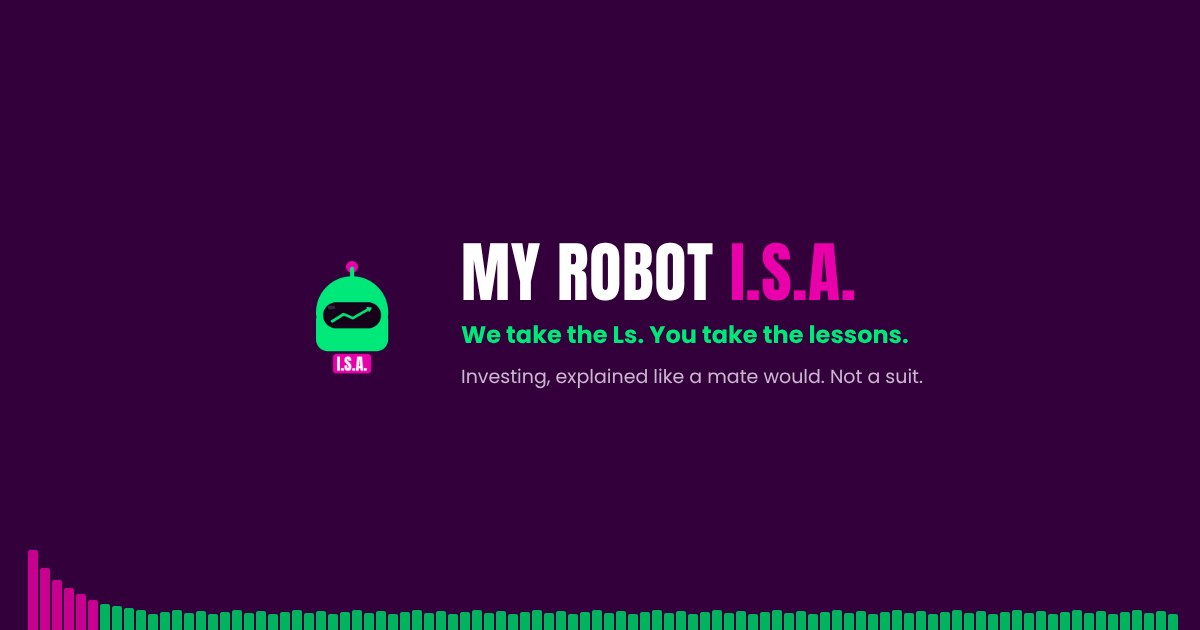
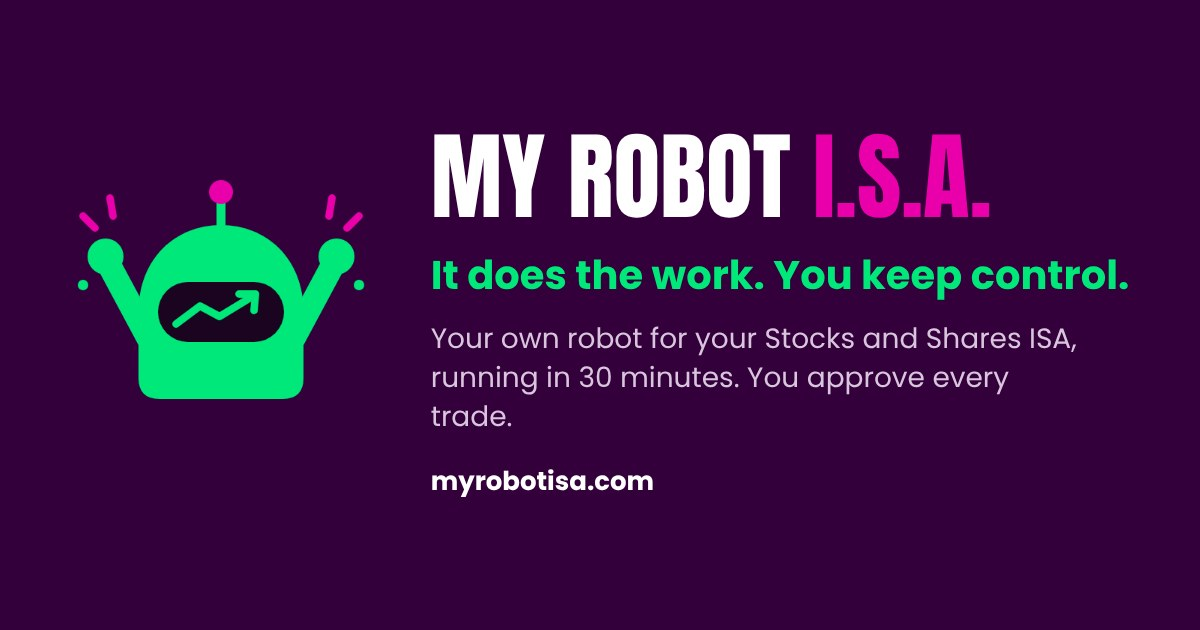
Home: 'Build your own robot ISA in 30 minutes', 'It does the work. You keep control.', phone-first line, header spacing, new share card
Claude-Session: https://claude.ai/code/session_014Zj55aQRpwcDRawmjXEC8J

diff --git a/docs/index.html b/docs/index.html
@@ -4,18 +4,18 @@
 <meta charset="utf-8">
 <script>/* 23 Oct 2026: GitHub sign-in for Set up my robot lands here if the OAuth callback is the homepage; pass it to the members area */(function(){var q=location.search;if(/[?&]code=/.test(q)&&/[?&]state=/.test(q))location.replace("/members/"+q+"#setup");})();</script>
 <meta name="viewport" content="width=device-width, initial-scale=1">
-<title>My Robot I.S.A. — Build your own robot ISA in 14 days</title>
+<title>My Robot I.S.A. — Build your own robot ISA in 30 minutes</title>
 <meta name="description" content="Build your own robot ISA: the code for a rules-based stocks and shares ISA system, 14 short lessons and a dashboard. Free test drive in December; £99 for the first 100.">
 <link rel="canonical" href="https://myrobotisa.com/">
-<meta property="og:title" content="Build your own robot ISA in 14 days">
-<meta property="og:description" content="We take the Ls. You take the lessons. Free test drive in December; £99 for the first 100 in January 2027, then £199.">
+<meta property="og:title" content="Build your own robot ISA in 30 minutes">
+<meta property="og:description" content="It does the work. You keep control. Free test drive in December; £99 for the first 100 in January 2027, then £199.">
 <meta property="og:type" content="website">
 <meta property="og:url" content="https://myrobotisa.com/">
 <meta property="og:site_name" content="My Robot I.S.A.">
 <meta property="og:image" content="https://myrobotisa.com/og.jpg">
 <meta property="og:image:width" content="1200">
 <meta property="og:image:height" content="630">
-<meta property="og:image:alt" content="My Robot I.S.A.: We take the Ls. You take the lessons.">
+<meta property="og:image:alt" content="My Robot I.S.A.: It does the work. You keep control.">
 <meta name="twitter:card" content="summary_large_image">
 <meta name="twitter:image" content="https://myrobotisa.com/og.jpg">
 <meta name="theme-color" content="#34003B">
@@ -33,7 +33,7 @@
   html,body{margin:0;background:var(--deep);color:var(--ink);font-family:Poppins,system-ui,-apple-system,"Segoe UI",sans-serif;-webkit-font-smoothing:antialiased}
   a{color:var(--green)}
   .wrap{max-width:760px;margin:0 auto;padding:0 20px}
-  header{display:flex;align-items:center;justify-content:space-between;padding:20px 0}
+  header{display:flex;align-items:center;justify-content:space-between;gap:14px;padding:20px 0}
   .handle{color:var(--muted);font-weight:500;font-size:15px;text-decoration:none;display:inline-flex;align-items:center;min-height:34px}
   .pw{display:contents}
   .pf[hidden],.ps[hidden],.places[hidden],.tag[hidden]{display:none!important}
@@ -361,11 +361,11 @@
 <main id="main">
   <section class="hero">
     <div>
-      <h1>Build your own <span class="p">robot ISA</span> in 14 days</h1>
-      <p class="promise">We take the Ls. <span class="g">You take the lessons.</span></p>
-      <p class="line">Your stocks and shares ISA, run by tested rules in code: the robot proposes each week's trades, you approve them in under a minute.</p>
+      <h1>Build your own <span class="p">robot ISA</span> in 30 minutes</h1>
+      <p class="promise">It does the work. <span class="g">You keep control.</span></p>
+      <p class="line">A robot runs your Stocks and Shares ISA by rules tested on six years of real market data. Every Sunday it plans the trades; you approve them from your phone in under a minute.</p>
       <ul class="proof">
-        <li><b>30 minutes</b> to your first paper trade, then 14 days at your own pace</li>
+        <li><b>30 minutes</b> to your robot running on practice money (about 10 if you already have GitHub, Trading 212 and Resend), then 14 short lessons at your own pace</li>
         <li><b>Tested</b> on real market data from 2020 to 2026, through the Covid crash, the 2022 bear market and the 2025 tariff drop. <a href="#tested" style="color:var(--green);font-weight:700">See what it went through</a></li>
         <li><b>Live</b> with the founder's own money, in an ISA</li>
       </ul>
@@ -702,7 +702,7 @@
 <script>
 // 22 Oct 2026: signed-in members see "Members area" instead of "Log in" in the header (the side menu stays the site's; Amit, 23 Oct).
 (function(){try{var s=JSON.parse(localStorage.getItem("mri-members-session")||"null");if(!s||!s.access_token)return;
-var l=document.querySelector("a.login");if(l){l.textContent="Members area";l.href=l.getAttribute("href").replace(/members\/.*/,"members/#home");}}catch(e){}})();
+var l=document.querySelector("a.login");if(l){l.innerHTML="Members<span class=\"t-long\"> area</span>";l.href=l.getAttribute("href").replace(/members\/.*/,"members/#home");}}catch(e){}})();
 </script>
 </body>
 </html>

diff --git a/docs/join.html b/docs/join.html
@@ -15,7 +15,7 @@
 <meta property="og:image" content="https://myrobotisa.com/og.jpg">
 <meta property="og:image:width" content="1200">
 <meta property="og:image:height" content="630">
-<meta property="og:image:alt" content="My Robot I.S.A.: We take the Ls. You take the lessons.">
+<meta property="og:image:alt" content="My Robot I.S.A.: It does the work. You keep control.">
 <meta name="twitter:card" content="summary_large_image">
 <meta name="twitter:image" content="https://myrobotisa.com/og.jpg">
 <meta name="theme-color" content="#34003B">

diff --git a/docs/status.html b/docs/status.html
@@ -15,7 +15,7 @@
 <meta property="og:image" content="https://myrobotisa.com/og.jpg">
 <meta property="og:image:width" content="1200">
 <meta property="og:image:height" content="630">
-<meta property="og:image:alt" content="My Robot I.S.A.: We take the Ls. You take the lessons.">
+<meta property="og:image:alt" content="My Robot I.S.A.: It does the work. You keep control.">
 <meta name="twitter:card" content="summary_large_image">
 <meta name="twitter:image" content="https://myrobotisa.com/og.jpg">
 <meta name="theme-color" content="#34003B">
